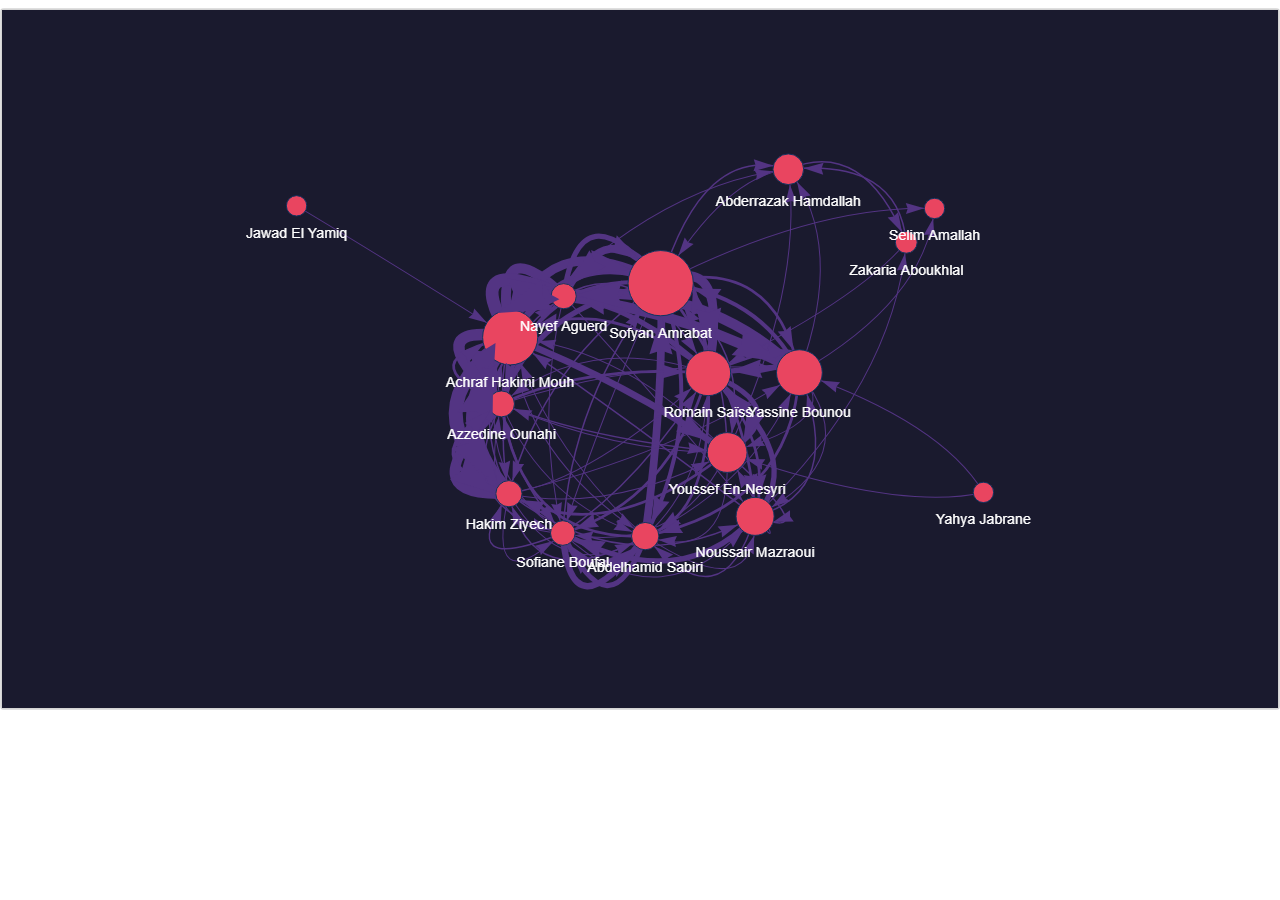
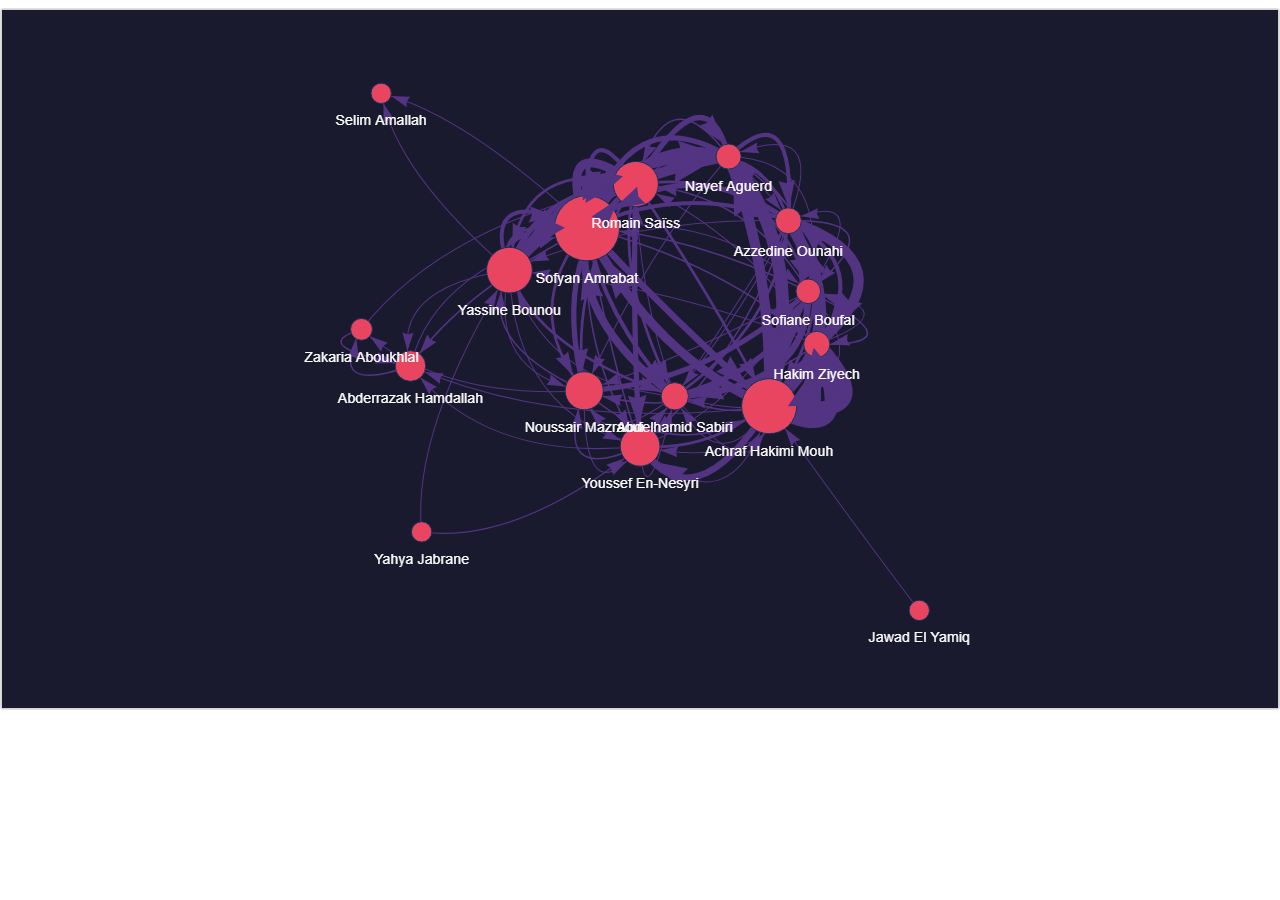
fix: comunidades reales con Louvain sembrado (greedy_modularity no acepta seed)
greedy_modularity_communities() en NetworkX instalado no acepta el kwarg seed, asi que el except silencioso dejaba num_communities=0 en ambos equipos (regresion del commit 233dae8). Se cambia a louvain_communities(weight='weight', seed=COMMUNITY_SEED), que si es sembrable y deterministicas. Anadido test que exige 2 comunidades en un grafo de dos triángulos (antes pasaba con 0). Outputs regenerados: Canada y Morocco 3 comunidades cada uno. Se des-trackea .coverage (binary accidental del commit 107c935) y se anade a .gitignore; grep final de rutas C:/Users ahora limpio.

diff --git a/tests/test_graph_analysis.py b/tests/test_graph_analysis.py
@@ -3,6 +3,7 @@
 import csv
 import json
 
+import networkx as nx
 import pandas as pd
 
 from src.graph_analysis import (
@@ -15,8 +16,6 @@ from src.graph_analysis import (
 
 
 def _tiny_graph():
-    import networkx as nx
-
     G = nx.DiGraph()
     G.add_edge("A", "B", weight=5)
     G.add_edge("B", "C", weight=3)
@@ -35,8 +34,6 @@ def test_compute_metrics_returns_full_dicts():
 
 
 def test_summarize_metrics_is_serializable():
-    import json
-
     summary = summarize_metrics(compute_metrics(_tiny_graph()))
     assert summary["nodes"] == 3
     assert summary["edges"] == 2
@@ -52,8 +49,6 @@ def test_betweenness_weighted_prefers_frequent_lane():
     Weighted (dist = 1/pases): the frequent A->B->C lane (0.1+0.1) beats the
     rare direct pass A->C (1.0), so B gains betweenness.
     """
-    import networkx as nx
-
     G = nx.DiGraph()
     G.add_edge("A", "B", weight=10)
     G.add_edge("B", "C", weight=10)
@@ -77,6 +72,24 @@ def test_community_detection_is_deterministic():
     first = compute_metrics(_tiny_graph())["communities"]
     second = compute_metrics(_tiny_graph())["communities"]
     assert first == second
+    assert len(first) >= 1
+
+
+def test_community_detection_yields_real_communities():
+    """Seedable Louvain must return communities, not silently fall back."""
+    G = nx.DiGraph()
+    G.add_weighted_edges_from(
+        [
+            ("A", "B", 5),
+            ("B", "C", 5),
+            ("C", "A", 5),
+            ("D", "E", 5),
+            ("E", "F", 5),
+            ("F", "D", 5),
+        ]
+    )
+    metrics = compute_metrics(G)
+    assert len(metrics["communities"]) == 2
 
 
 def test_build_graph_from_csv(tmp_path):

diff --git a/src/graph_analysis.py b/src/graph_analysis.py
@@ -62,12 +62,13 @@ def compute_metrics(G: "nx.DiGraph") -> dict:
     degree_cent = nx.degree_centrality(G)
 
     try:
-        from networkx.algorithms.community import greedy_modularity_communities
+        from networkx.algorithms.community import louvain_communities
 
+        # louvain_communities acepta seed (greedy_modularity_communities, no).
         communities = [
             sorted(c)
-            for c in greedy_modularity_communities(
-                G.to_undirected(), seed=COMMUNITY_SEED
+            for c in louvain_communities(
+                G.to_undirected(), weight="weight", seed=COMMUNITY_SEED
             )
         ]
     except Exception:  # noqa: BLE001
